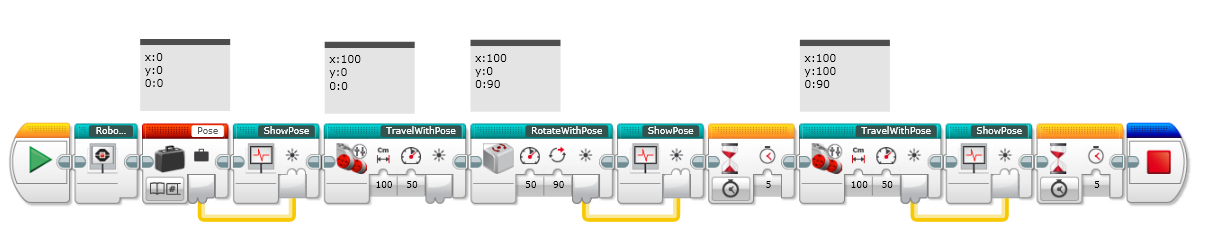
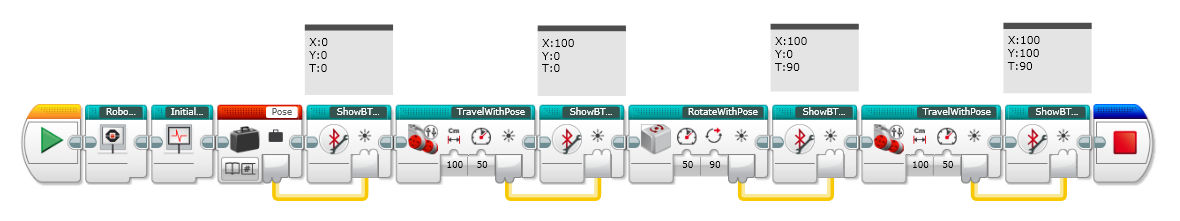
Adding the new Block to send to another EV3 Brick the Pose to debug. https://github.com/ilovenetruinos/ev3g-odometry/issues/11

diff --git a/README.md b/README.md
@@ -36,6 +36,14 @@ Source: [Wikipedia](https://en.wikipedia.org/wiki/Odometry)
 
 ## EV3 Utility blocks
 
+### Show BT Pose
+
+![Show Pose](./docs/images/example_showBTPose.png)
+
+### Read BT Pose
+
+![Show Pose](./docs/images/example_readBTPose.png)
+
 ### Show Pose
 
 ![Show Pose](./docs/images/showPoseBlock.png)
@@ -62,14 +70,6 @@ To solve this kind of solution, a easy way is to calculate the error generated b
 
 ![Using the robot on a Carpet](./docs/images/exampleMovementOnCarpet.png)
 
-The odometry error grow with the distance:
-
-![](./docs/images/odometryError1.png)
-
-But it is possible to be increased when the robot turn. Gyro sensor accuracy is able to reduce this kind of error.
-
-![](./docs/images/odometryError2.png)
-
 ## Downloads
 
 Download the program [here](./examples/odometry.ev3)
@@ -77,7 +77,7 @@ Download the program [here](./examples/odometry.ev3)
 ## Documentation
 
 * [Configuration](./docs/EV3_OdometryBlocksConfiguration.md)
-* [Motion Model for a Wheeled robot](./docs/EV3_WheeledMotionModelm.md)
+* [Motion Model for a Wheeled robot](./docs/EV3_WheeledMotionModel.md)
 * [Remote Debugging with Bluetooth](./docs/EV3_Bluetooth.md)
 * [Trigonometry](./docs/EV3_Trigonometry.md)
 * [Developer notes](./docs/developerNotes.md)
@@ -90,7 +90,7 @@ The project was tested with the following mobile platform.
 
 [Download the LDD design](./LDD/Base1/Base1_6.lxf). In few hours it is possible to run the same tests
 
-![Brity2](./docs/images/ThePlatformInAction.png)
+![Brity2](./docs/images/ThePlatformInAction.jpg)
 
 ## Backlog
 
@@ -114,7 +114,7 @@ If you have some doubt, please [create a issue](https://github.com/ilovenetruino
 * [RCX RotationNavigator.java](https://sourceforge.net/p/lejos/rcx/code/HEAD/tree/trunk/lejos/src/java/classes/josx/robotics/RotationNavigator.java)
 * [Sariel section about Wheels](http://wheels.sariel.pl/)
 
-**Note:** My sincere thanks for the [Bmegli](https://github.com/bmegli/ev3dev-mapping) by his technical support.
+**Note:** My sincere thanks for [Bmegli](https://github.com/bmegli/ev3dev-mapping) by his technical support.
 
 Juan Antonio Brenha Moral, 2016
 [http://www.iloveneutrinos.com](http://www.iloveneutrinos.com)

diff --git a/docs/EV3_WheeledMotionModel.md b/docs/EV3_WheeledMotionModel.md
@@ -10,3 +10,11 @@ The required formulas used to calculate a Pose are:
 * posY = posY + (displacement * sin(heading)) <- Heading in Radians
 
 You can test the calculus in the following Excel to calculate the calculus: [Download Excel](./OdometryCalculusTest.xls)
+
+The odometry error grow with the distance:
+
+![](./docs/images/odometryError1.png)
+
+But it is possible to be increased when the robot turn. Gyro sensor accuracy is able to reduce this kind of error.
+
+![](./docs/images/odometryError2.png)

diff --git a/docs/EV3_Trigonometry.md b/docs/EV3_Trigonometry.md
@@ -1,3 +1,5 @@
 # Trygonometry for EV3
 
+![Trigonometry](./images/trigonometry.jpg)
+
 Work in progress.
